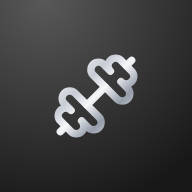
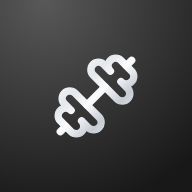
ダンベルの銀色のグラデーションを弱めて白に近く
Claude-Session: https://claude.ai/code/session_01Xxn6QGk1a3dqL1pxCuWGwf

diff --git a/src/components/BrandMark.tsx b/src/components/BrandMark.tsx
@@ -1,6 +1,6 @@
 import { useId } from 'react'
 
-// ロゴのダンベル（アプリアイコンと同じ銀色のグラデーション）
+// ロゴのダンベル（アプリアイコンと同じ、白に近い銀色のグラデーション）
 export function BrandMark() {
   const id = useId().replace(/:/g, '')
   return (
@@ -8,10 +8,10 @@ export function BrandMark() {
       <defs>
         <linearGradient id={id} gradientUnits="userSpaceOnUse" x1="3" y1="3" x2="21" y2="21">
           <stop offset="0" stopColor="#ffffff" />
-          <stop offset=".32" stopColor="#c7ccd4" />
-          <stop offset=".5" stopColor="#f5f7f9" />
-          <stop offset=".72" stopColor="#959daa" />
-          <stop offset="1" stopColor="#e3e7ec" />
+          <stop offset=".32" stopColor="#e4e7eb" />
+          <stop offset=".5" stopColor="#fbfcfd" />
+          <stop offset=".72" stopColor="#c6ccd4" />
+          <stop offset="1" stopColor="#f1f3f5" />
         </linearGradient>
       </defs>
       <g stroke={`url(#${id})`}>
